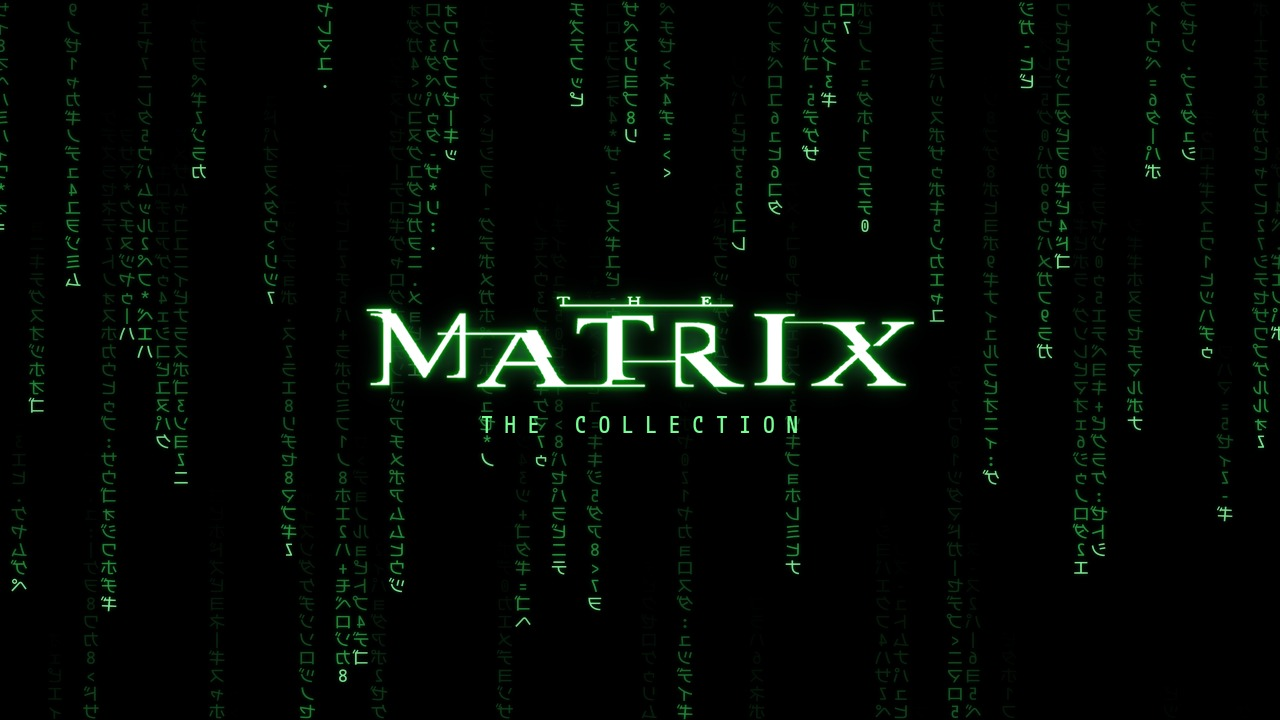
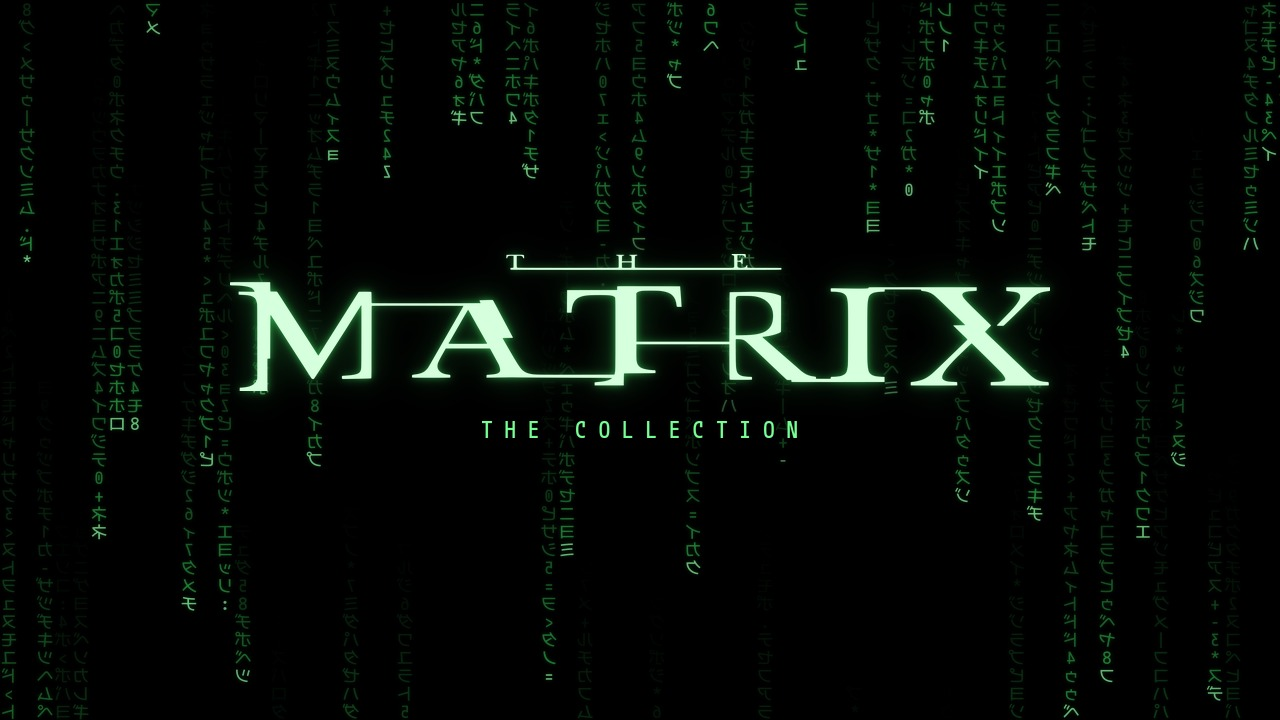
matrix: new card (title ident: code falls into THE MATRIX, the letters run as code, then lock left to right; seamless hover)
Claude-Session: https://claude.ai/code/session_01QqcAdMGokHGeFf5PAk1q99

diff --git a/art/universes/matrix/_src/README.md b/art/universes/matrix/_src/README.md
@@ -1,4 +1,5 @@
-Matrix card, rendered by nuvio-awards/art_tools/matrix_rain.py:
-  python3 art_tools/matrix_rain.py <this _src dir> <out dir>
-- logo.png: The Matrix title logo on TMDB; *.jpg: official backdrops on TMDB.
-- M PLUS 1 Code (the code glyphs): SIL Open Font License, included.
+Matrix card (the title forms out of the code), rendered by nuvio-awards/art_tools/matrix_ident.py:
+  python3 art_tools/matrix_ident.py <this _src dir> <out dir> --mode code
+- logo.svg: The Matrix title logo on TMDB (vector, film 603).
+- M PLUS 1 Code (the code glyphs, mirrored like the film's, and THE COLLECTION): SIL Open Font License, included.
+- backdrop.jpg is unchanged.
